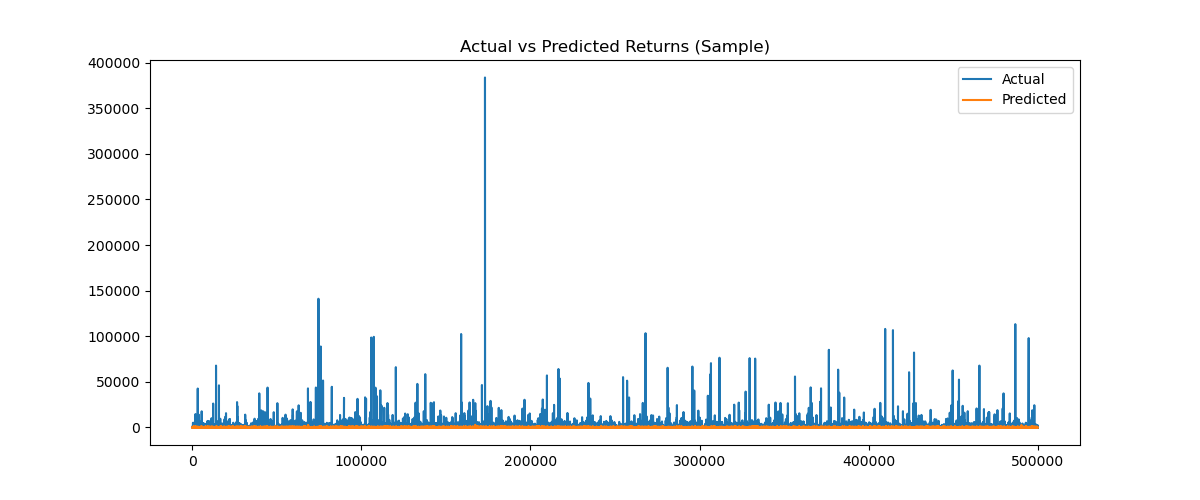
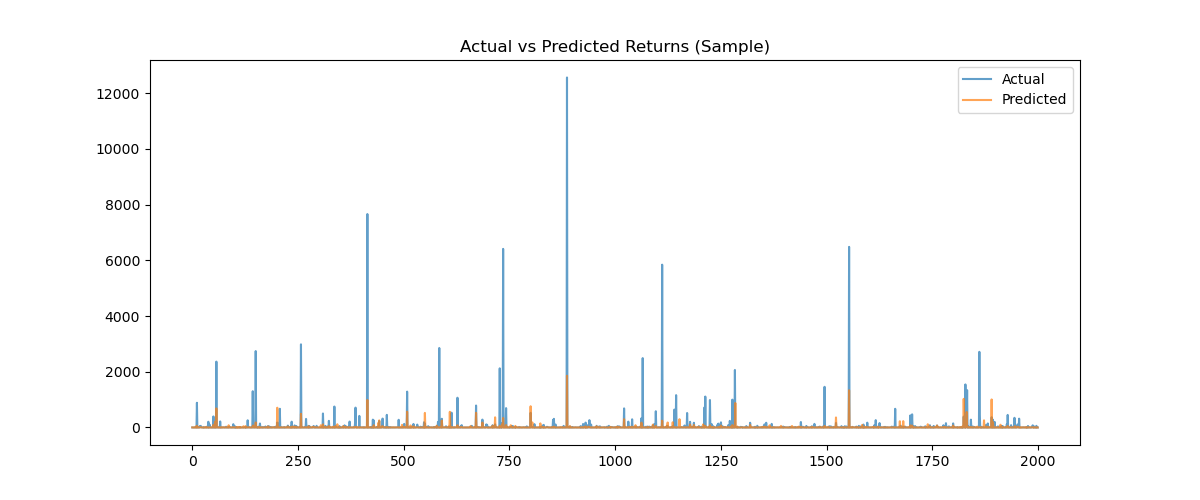
Updated the code

diff --git a/code.py b/code.py
@@ -5,7 +5,6 @@ import matplotlib.pyplot as plt
 import seaborn as sns
 
 from sklearn.model_selection import train_test_split
-from sklearn.preprocessing import StandardScaler
 from sklearn.metrics import mean_squared_error, r2_score
 from sklearn.ensemble import RandomForestRegressor
 from xgboost import XGBRegressor
@@ -62,51 +61,55 @@ df['Return'] = df['Close'].pct_change()
 # Volatility
 df['Volatility'] = df['Return'].rolling(window=21).std()
 
-# 6.Feature Engineering
-# Moving Averages
+
+# 6. Feature Engineering
+# Moving averages
 df['MA10'] = df['Close'].rolling(10).mean()
 df['MA50'] = df['Close'].rolling(50).mean()
 df['MA200'] = df['Close'].rolling(200).mean()
 
 # Exponential Moving Average
-df['EMA10'] = df['Close'].ewm(span=10).mean()
+df['EMA10'] = df['Close'].ewm(span=10, adjust=False).mean()
 
-# RSI (Relative Strength Index)
+# RSI
 delta = df['Close'].diff()
 gain = (delta.where(delta > 0, 0)).rolling(14).mean()
 loss = (-delta.where(delta < 0, 0)).rolling(14).mean()
 rs = gain / loss
-
 df['RSI'] = 100 - (100 / (1 + rs))
 
-# Target Variable (Future Return)
-df['Future_Return'] = df['Close'].pct_change().shift(-1)
+# Target
+df['Future_Return'] = df['Close'].pct_change(periods=5).shift(-5)
+
 
 # 7. Prepare Training Data
 # Drop NA
-df = df.dropna()
+df = df.dropna().copy()
 
-# Feature Selection
-features = ['Close','MA10','MA50','MA200','EMA10','RSI','Volatility']
+print("Training on ALL companies")
+
+# ===== Feature Selection =====
+features = ['Close', 'MA10', 'MA50', 'MA200', 'EMA10', 'RSI', 'Volatility']
+
+print("Available columns:", df.columns.tolist())
+
 X = df[features]
 y = df['Future_Return']
 
 # Train-Test Split (Time Series)
-
 # features and target already prepared as X, y
+split = int(len(X) * 0.8)
 
-split = int(len(df) * 0.8)
+# safety check
+if split >= len(X):
+    split = len(X) - 1
 
-X_train, X_test = X.iloc[:split], X.iloc[split:]
-y_train, y_test = y.iloc[:split], y.iloc[split:]
+X_train, X_test = X[:split], X[split:]
+y_train, y_test = y[:split], y[split:]
 
 print(f"Train size: {len(X_train)}")
 print(f"Test size: {len(X_test)}")
 
-# Scaling
-scaler = StandardScaler()
-X_train_scaled = scaler.fit_transform(X_train)
-X_test_scaled = scaler.transform(X_test)
 
 # 8. Model Building
 # Model 1: XGBoost
@@ -122,17 +125,17 @@ xgb = XGBRegressor(
     n_jobs=-1
 )
 
-xgb.fit(X_train_scaled, y_train)
+xgb.fit(X_train, y_train)
 print(" XGBoost trained")
 
-xgb_pred = xgb.predict(X_test_scaled)
+xgb_pred = xgb.predict(X_test)
 
 # Model 2: Random Forest
 print(" Preparing subset for Random Forest...")
 
-rf_sample_size = min(300000, len(X_train_scaled))  # adjust if needed
+rf_sample_size = min(300000, len(X_train))  # adjust if needed
 
-X_train_rf = X_train_scaled[:rf_sample_size]
+X_train_rf = X_train[:rf_sample_size]
 y_train_rf = y_train[:rf_sample_size]
 
 print(f"RF training on {len(X_train_rf)} samples")
@@ -149,7 +152,8 @@ rf = RandomForestRegressor(
 rf.fit(X_train_rf, y_train_rf)
 print(" Random Forest trained")
 
-rf_pred = rf.predict(X_test_scaled)
+rf_pred = rf.predict(X_test)
+
 
 # 9. Model Evaluation
 # calculate metrics once
@@ -197,13 +201,11 @@ os.makedirs("outputs", exist_ok=True)
 # save BEST model with fixed name
 pickle.dump(best_model, open("outputs/best_model.pkl", "wb"))
 
-# save scaler (VERY IMPORTANT)
-pickle.dump(scaler, open("outputs/scaler.pkl", "wb"))
-
 print(" Best model saved as outputs/best_model.pkl")
 
-# 11. Visualization of Predictions
-sample_size = 500000  # adjust if needed
+# 11. Visualization
+sample_size = min(2000, len(y_test)) 
+
 y_sample = y_test.values[:sample_size]
 
 if xgb_rmse <= rf_rmse:
@@ -212,8 +214,8 @@ else:
     pred_sample = rf_pred[:sample_size]
 
 plt.figure(figsize=(12,5))
-plt.plot(y_sample, label="Actual")
-plt.plot(pred_sample, label="Predicted")
+plt.plot(y_sample, label="Actual", alpha=0.7)
+plt.plot(pred_sample, label="Predicted", alpha=0.7)
 plt.legend()
 plt.title("Actual vs Predicted Returns (Sample)")
 plt.savefig("outputs/actual_vs_pred.png")

diff --git a/data/README_DATA.md b/data/README_DATA.md
@@ -2,11 +2,7 @@
 
 The dataset used in this project is available on Kaggle:
 
-<<<<<<< HEAD
 🔗 https://www.kaggle.com/datasets/sagara9595/stock-data
-=======
- https://www.kaggle.com/datasets/sagara9595/stock-data
->>>>>>> 6cd3150 (Cleaned data folder and updated gitignore)
 
 ### Steps to use
 
